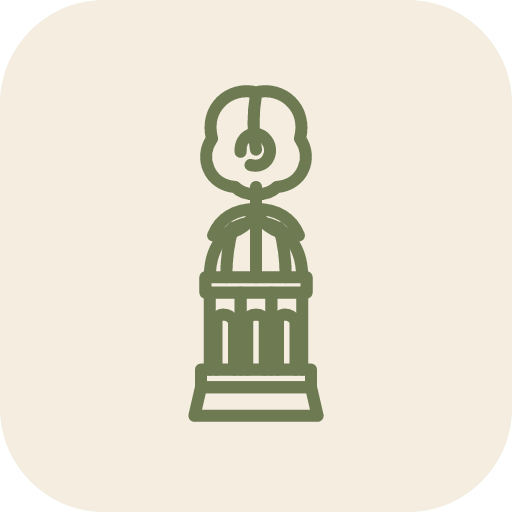
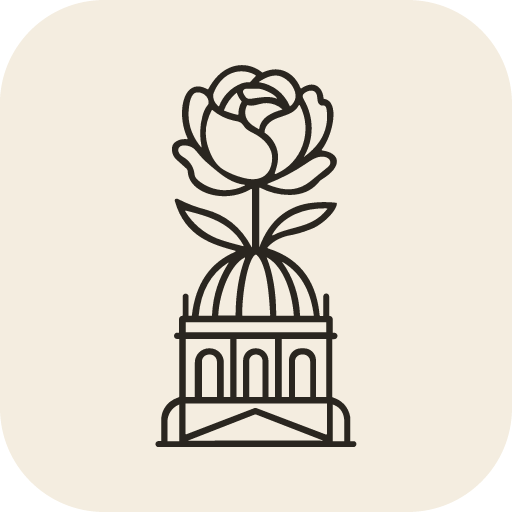
Ikona aplikace „Můj krám" ze skutečného loga
Ikony se renderovaly z ručně překreslené favikony — růže vypadala jako
obláček a na ploše telefonu to působilo divně. Teď je na nich znak
vyříznutý přímo z public/logo.svg (růže na kupoli muzea), tmavý na
krémovém. Pro Android menší, aby ho neusekl kruhový ořez; pro iPhone
větší, protože ikonu jen zakulatí.

Generátor je v scripts/generate-app-icons.mjs. Změněnou ikonu si iPhone
sám nepřevezme — je potřeba ji na ploše smazat a přidat znovu.

Changed region(s): [[0.2812, 0.125, 0.7188, 0.875]]

diff --git a/README.md b/README.md
@@ -119,9 +119,15 @@ podržení ikony na Androidu nabídne zkratky Moje výplata, Zapsat tržbu
 a Nová objednávka.
 
 Manifest a ikony jsou v `public/admin-app/` — mimo `/admin`, aby je
-prohlížeč stáhl i bez přihlášení. Ikony jsou vyrenderované z
-`src/app/icon.svg`. Offline režim (service worker) aplikace nemá; výpadek
-sítě řeší admin sám kopií dat v prohlížeči.
+prohlížeč stáhl i bez přihlášení. Na ikoně je znak z loga (růže na kupoli
+muzea), vyříznutý přímo z `public/logo.svg` skriptem
+`scripts/generate-app-icons.mjs` — postup spuštění je v jeho hlavičce.
+Offline režim (service worker) aplikace nemá; výpadek sítě řeší admin sám
+kopií dat v prohlížeči.
+
+Změněnou ikonu si iPhone sám nepřevezme — zapamatuje si ji ve chvíli
+přidání na plochu. Starou ikonu je potřeba z plochy smazat a přidat znovu.
+Android si ji časem obnoví sám.
 
 ### Heslo
 
